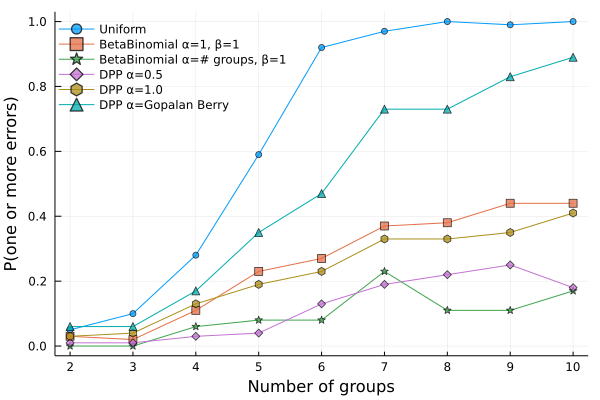
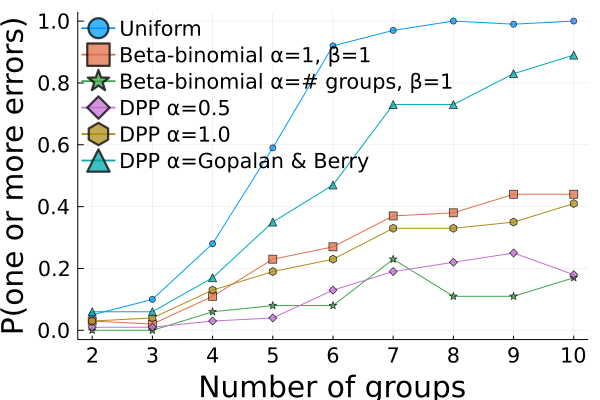
implement changes for figure 3 + rename figure files to include the figure number

diff --git a/TODO_equality5.md b/TODO_equality5.md
@@ -60,9 +60,8 @@ examine whether DPP prior is not horribly slow!
 - [x] Drop partition numbers (x-axis tick labels)
 
 ### Figure 3
-- [ ] "BetaBinomial" -> "Beta-Binomial"
-- [ ] "Gopalan Berry" -> "Gopalan & Berry" (ampersand)
-- [ ]
+- [x] "BetaBinomial" -> "Beta-Binomial"
+- [x] "Gopalan Berry" -> "Gopalan & Berry" (ampersand)
 
 ### Figure 4 + Figure 5
 - [ ] check zero vs non-zero?
